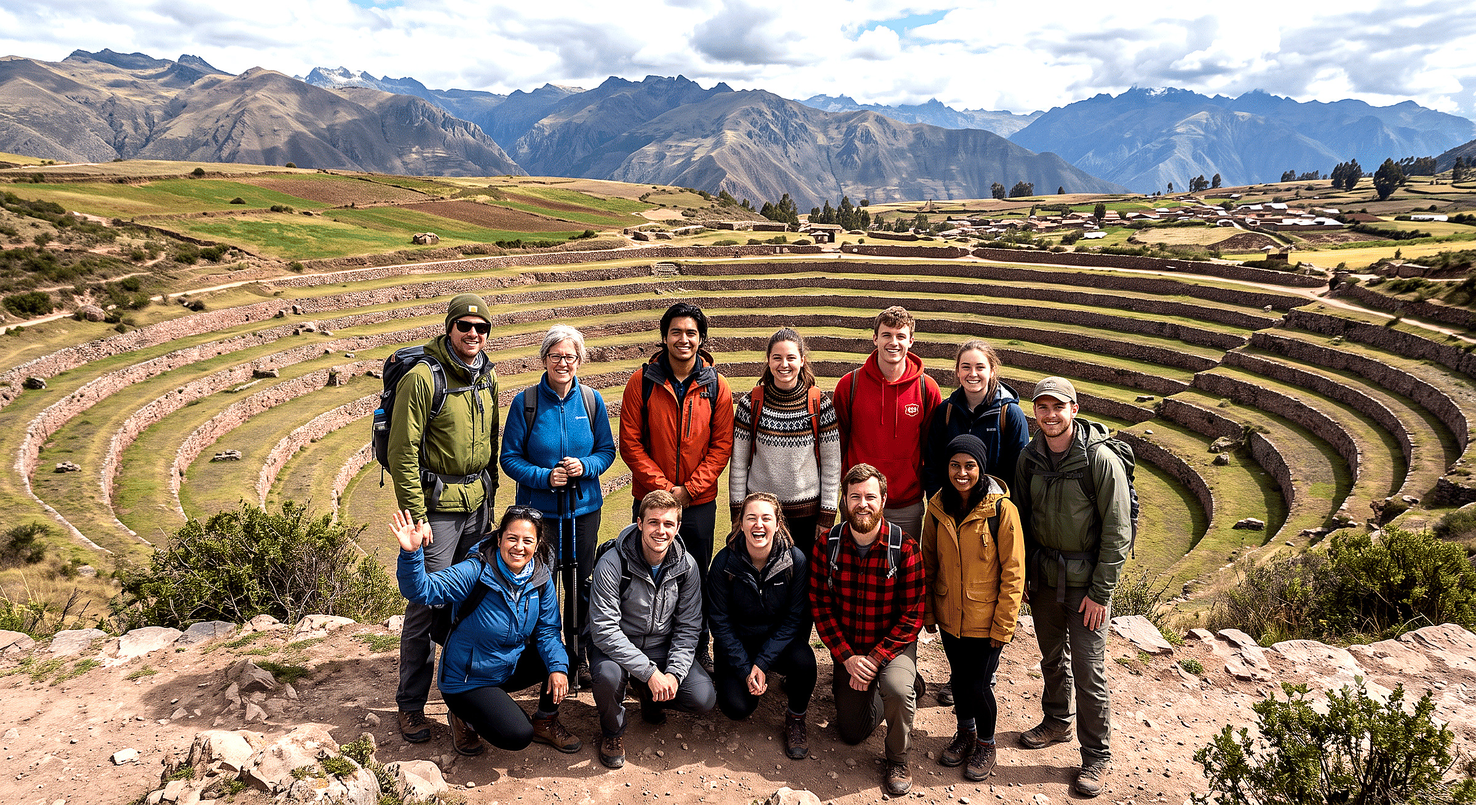
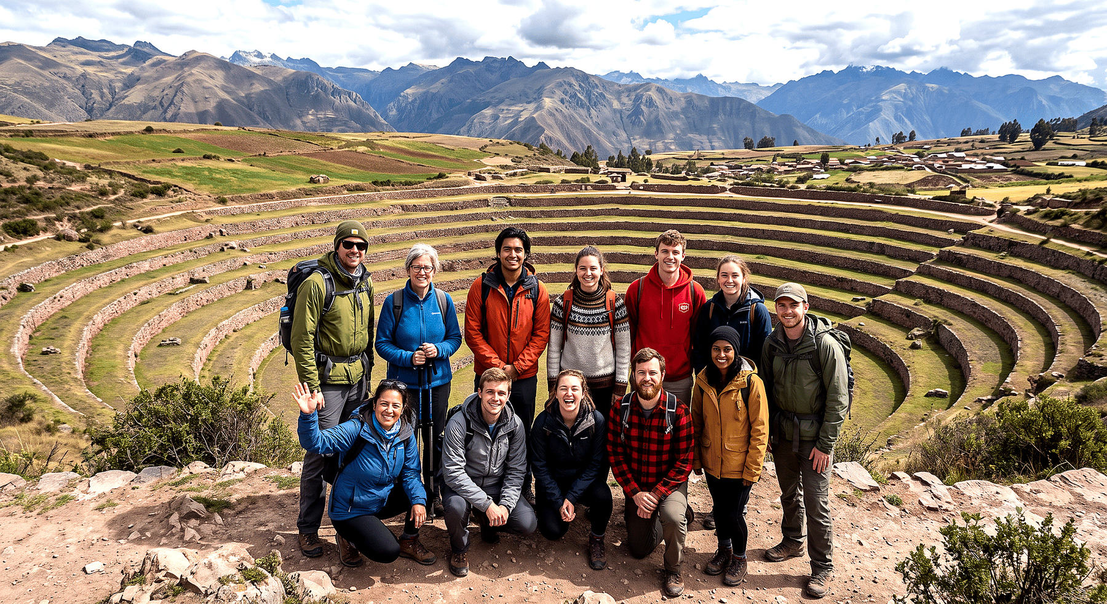
Fix hero booking menu overlap and speed up mobile loading.
Keep Explore now visible under the tour picker, raise stacking for open menus, compress hero assets, and lazy-load the tour-plans video.

diff --git a/styles.css b/styles.css
@@ -623,13 +623,19 @@ body[data-page="home"] .site-header:not(.scrolled) .nav-toggle {
   color: var(--white);
 }
 
-/* Hero */
 .hero {
+  position: relative;
+  z-index: 3;
   padding: calc(var(--header-h) + 1.5rem) 0 2rem;
 }
 
 body[data-page="home"] .hero {
   padding: 0;
+  z-index: 3;
+}
+
+body[data-page="home"] .hero.is-booking-open {
+  z-index: 12;
 }
 
 body[data-page="home"] .hero > .container {
@@ -774,7 +780,10 @@ body[data-page="home"] .hero-overlay {
   right: 2rem;
   bottom: 2.5rem;
   z-index: 4;
+  display: flex;
+  flex-direction: column;
   width: min(360px, calc(100% - 3rem));
+  max-height: min(72vh, 640px);
   padding: 1.35rem;
   border-radius: var(--radius-md);
   border: 1px solid rgba(255, 255, 255, 0.13);
@@ -785,6 +794,33 @@ body[data-page="home"] .hero-overlay {
   backdrop-filter: blur(12px) saturate(110%);
   color: var(--white);
   box-shadow: 0 18px 50px rgba(0, 0, 0, 0.12);
+  overflow: hidden;
+}
+
+.hero-booking.is-menu-open {
+  z-index: 8;
+}
+
+.hero-booking-grid {
+  display: grid;
+  grid-template-columns: 1fr;
+  gap: 0.9rem;
+  min-height: 0;
+  flex: 1 1 auto;
+  overflow-x: hidden;
+  overflow-y: auto;
+  overscroll-behavior: contain;
+  -webkit-overflow-scrolling: touch;
+}
+
+.hero-booking > .btn {
+  width: 100%;
+  min-width: 0;
+  margin-top: 1.1rem;
+  padding: 0.9rem 1.2rem;
+  flex: 0 0 auto;
+  position: relative;
+  z-index: 1;
 }
 
 .hero-booking label {
@@ -792,12 +828,6 @@ body[data-page="home"] .hero-overlay {
   margin-bottom: 0.45rem;
   font-size: 0.88rem;
   color: rgba(255, 255, 255, 0.88);
-}
-
-.hero-booking-grid {
-  display: grid;
-  grid-template-columns: 1fr;
-  gap: 0.9rem;
 }
 
 .hero-booking select,
@@ -818,13 +848,6 @@ body[data-page="home"] .hero-overlay {
 .hero-booking input:focus {
   border-color: rgba(255, 255, 255, 0.5);
   background: rgba(255, 255, 255, 0.08);
-}
-
-.hero-booking > .btn {
-  width: 100%;
-  min-width: 0;
-  margin-top: 1.1rem;
-  padding: 0.9rem 1.2rem;
 }
 
 .hero-trust {
@@ -1350,7 +1373,7 @@ body[data-page="home"] .featured-tours-grid .tour-card {
   padding: clamp(4.5rem, 7vw, 6.5rem) 0 clamp(4rem, 6vw, 5.5rem);
   overflow: hidden;
   border-radius: var(--radius-lg);
-  background: #253331 url("assets/hero-main.png") center / cover no-repeat;
+  background: #253331 url("assets/hero-main.jpg") center / cover no-repeat;
   color: var(--white);
 }
 
@@ -3121,19 +3144,30 @@ body[data-page="home"] .faq-head .section-title {
 }
 
 .hero-booking .tour-multi-menu {
+  position: relative;
   top: auto;
-  bottom: calc(48px + 0.45rem);
+  bottom: auto;
+  left: auto;
+  width: 100%;
+  margin-top: 0.45rem;
+  z-index: 2;
   border-color: rgba(255, 255, 255, 0.2);
   background: rgba(13, 24, 23, 0.96);
   color: var(--white);
-  box-shadow: 0 -18px 48px rgba(0, 0, 0, 0.34);
+  box-shadow: 0 16px 36px rgba(0, 0, 0, 0.28);
   backdrop-filter: blur(18px);
 }
 
+.hero-booking .tour-multi-menu[hidden] {
+  display: none;
+}
+
 .hero-booking .tour-multi-options {
-  max-height: none;
-  overflow-y: visible;
+  max-height: min(36vh, 220px);
+  overflow-y: auto;
+  overscroll-behavior: contain;
   padding: 0.55rem;
+  -webkit-overflow-scrolling: touch;
 }
 
 .hero-booking .tour-multi .tour-multi-option {
@@ -3167,9 +3201,11 @@ body[data-page="home"] .faq-head .section-title {
 }
 
 .hero-booking .tour-booking-details {
-  max-height: min(45vh, 440px);
+  max-height: min(28vh, 220px);
   overflow-y: auto;
+  overscroll-behavior: contain;
   padding-right: 0.2rem;
+  -webkit-overflow-scrolling: touch;
 }
 
 .hero-booking .tour-booking-row label {
@@ -4137,14 +4173,9 @@ body[data-page="home"] .faq-head .section-title {
     position: static;
     width: 100%;
     max-width: min(100%, 420px);
+    max-height: min(68vh, 560px);
     margin-left: auto;
     margin-top: 2rem;
-  }
-
-  .hero-booking .tour-multi-menu {
-    top: calc(48px + 0.45rem);
-    bottom: auto;
-    box-shadow: 0 18px 48px rgba(0, 0, 0, 0.34);
   }
 
   .hero-content {

diff --git a/index.html b/index.html
@@ -10,6 +10,7 @@
       content="Ollanta Tours — Machu Picchu, Rainbow Mountain, and mountain bike adventures from Ollantaytambo, Peru."
     />
     <title data-i18n="meta.home.title">Ollanta Tours — Sacred Valley Adventures</title>
+    <link rel="preload" as="image" href="assets/hero-main.jpg" fetchpriority="high" />
     <link rel="stylesheet" href="styles.css" />
   </head>
   <body data-page="home">
@@ -54,9 +55,11 @@
               <canvas class="hero-water-canvas" aria-hidden="true"></canvas>
               <img
                 class="hero-water-source"
-                src="assets/hero-main.png"
+                src="assets/hero-main.jpg"
                 alt="Sacred Valley adventure in Ollantaytambo"
                 data-i18n-alt="images.hero"
+                fetchpriority="high"
+                decoding="async"
               />
             </div>
             <div class="hero-overlay"></div>
@@ -93,7 +96,7 @@
           <div class="story-photos" data-story-photos>
             <figure class="story-photo" data-lift="0">
               <div class="story-photo-frame fx-shake">
-                <img src="assets/hero-main.png" alt="Sacred Valley" data-i18n-alt="images.sacredValley" loading="lazy" />
+                <img src="assets/hero-main.jpg" alt="Sacred Valley" data-i18n-alt="images.sacredValley" loading="lazy" />
               </div>
             </figure>
             <figure class="story-photo story-photo-lift" data-lift="1">
@@ -240,13 +243,13 @@
           class="tour-plans-video"
           data-tour-plans-video
           muted
-          autoplay
           loop
           playsinline
-          poster="assets/hero-main.png"
+          preload="none"
+          poster="assets/hero-main.jpg"
           aria-hidden="true"
         >
-          <source src="assets/tour-plans-background.mp4" type="video/mp4" />
+          <source data-src="assets/tour-plans-background.mp4" type="video/mp4" />
         </video>
         <div class="tour-plans-shade" aria-hidden="true"></div>
         <div class="tour-plans-content">
@@ -418,11 +421,11 @@
             <h2 class="section-title" data-i18n="instagram.title">Ollanta Tours on Instagram</h2>
           </div>
           <div class="instagram-grid">
-            <div class="instagram-item fx-shake reveal"><img src="assets/hero-main.png" alt="" /></div>
+            <div class="instagram-item fx-shake reveal"><img src="assets/hero-main.jpg" alt="" /></div>
             <div class="instagram-item fx-shake reveal"><img src="assets/machu-picchu.jpg" alt="" /></div>
             <div class="instagram-item fx-shake reveal"><img src="assets/rainbow-mountain.png" alt="" /></div>
             <div class="instagram-item fx-shake reveal"><img src="assets/mountain-bike.png" alt="" /></div>
-            <div class="instagram-item fx-shake reveal"><img src="assets/hero-main.png" alt="" /></div>
+            <div class="instagram-item fx-shake reveal"><img src="assets/hero-main.jpg" alt="" /></div>
             <div class="instagram-item fx-shake reveal"><img src="assets/rainbow-mountain.png" alt="" /></div>
           </div>
           <div class="load-more-wrap"><a class="btn btn-primary btn-pill" href="contact.html" data-i18n="instagram.button">Start your journey</a></div>

diff --git a/script.js b/script.js
@@ -2065,18 +2065,31 @@ function initTourMultiSelects() {
     const button = picker.querySelector("[data-tour-multi-button]");
     const menu = picker.querySelector("[data-tour-multi-menu]");
     const hint = picker.querySelector(".tour-multi-hint");
+    const form = select.closest("form");
     hint.textContent = t("booking.chooseTours", getLang());
     button.setAttribute("aria-describedby", `${id}-hint ${id}-error`);
 
     const close = () => {
       menu.hidden = true;
       button.setAttribute("aria-expanded", "false");
+      picker.classList.remove("is-menu-open");
+      form?.classList.remove("is-menu-open");
+      document.querySelector(".hero")?.classList.remove("is-booking-open");
+    };
+
+    const open = () => {
+      menu.hidden = false;
+      button.setAttribute("aria-expanded", "true");
+      picker.classList.add("is-menu-open");
+      form?.classList.add("is-menu-open");
+      if (form?.classList.contains("hero-booking")) {
+        document.querySelector(".hero")?.classList.add("is-booking-open");
+      }
     };
 
     button.addEventListener("click", () => {
-      const willOpen = menu.hidden;
-      menu.hidden = !willOpen;
-      button.setAttribute("aria-expanded", String(willOpen));
+      if (menu.hidden) open();
+      else close();
     });
 
     picker.addEventListener("change", (event) => {

diff --git a/effects.js b/effects.js
@@ -322,6 +322,39 @@ class HeroWaterRipple {
   }
 }
 
+function initLazyTourPlansVideo() {
+  const video = document.querySelector("[data-tour-plans-video]");
+  if (!video || video.dataset.lazyBound) return;
+  video.dataset.lazyBound = "1";
+
+  const source = video.querySelector("source[data-src]");
+  const loadAndPlay = () => {
+    if (source?.dataset.src) {
+      source.src = source.dataset.src;
+      source.removeAttribute("data-src");
+      video.load();
+    }
+    const play = () => video.play().catch(() => {});
+    if (video.readyState >= 2) play();
+    else video.addEventListener("canplay", play, { once: true });
+  };
+
+  if (!("IntersectionObserver" in window)) {
+    loadAndPlay();
+    return;
+  }
+
+  const observer = new IntersectionObserver(
+    ([entry]) => {
+      if (!entry.isIntersecting) return;
+      observer.disconnect();
+      loadAndPlay();
+    },
+    { rootMargin: "200px 0px" }
+  );
+  observer.observe(video);
+}
+
 function initHeroWater() {
   document.querySelectorAll("[data-hero-water]").forEach((root) => {
     new HeroWaterRipple(root);
@@ -848,6 +881,7 @@ function initReviewsMarquee() {
 document.addEventListener("DOMContentLoaded", () => {
   initSmoothScroll();
   initHeroWater();
+  initLazyTourPlansVideo();
   initImageFx();
   initScrollReveal();
   initFeatureItemReveal();

diff --git a/about.html b/about.html
@@ -373,7 +373,7 @@
               </figure>
               <figure class="about-gallery-frame">
                 <img
-                  src="assets/hero-main.png"
+                  src="assets/hero-main.jpg"
                   alt="Sacred Valley adventure in Ollantaytambo"
                   data-i18n-alt="images.hero"
                   decoding="async"
@@ -404,7 +404,7 @@
                 <img src="assets/moray.jpg" alt="" decoding="async" />
               </figure>
               <figure class="about-gallery-frame">
-                <img src="assets/hero-main.png" alt="" decoding="async" />
+                <img src="assets/hero-main.jpg" alt="" decoding="async" />
               </figure>
               <figure class="about-gallery-frame">
                 <img src="assets/maras.png" alt="" decoding="async" />
